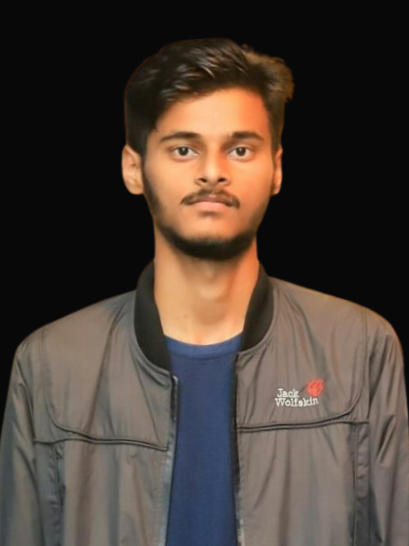
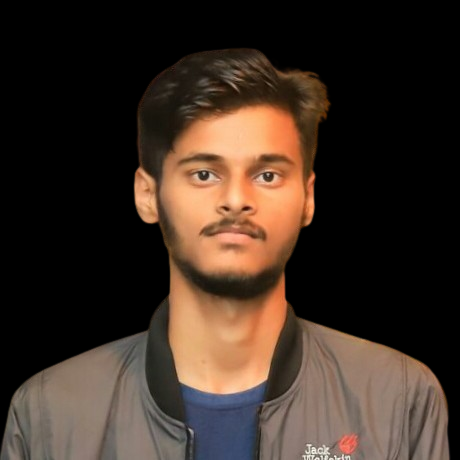
first commit

diff --git a/index.html b/index.html
@@ -33,7 +33,7 @@
                 <p>Hi,<br>I am <span>Ravi Pandit</span><br>I am a <span>Computer Engineer</span></p>
             </div>
             <div class="mobile_view" id="photos">
-                <img src="image1.png" alt="photo">
+                <img src="image.png" alt="photo">
             </div>
         </div>
         <div class="section" id="about">

diff --git a/style.css b/style.css
@@ -104,7 +104,7 @@ span {
 
 #photos img {
     background-size: cover;
-    object-fit: contain;
+    object-fit: cover;
     height: 24vw;
     width: 24vw;
     background-color: #080808;
